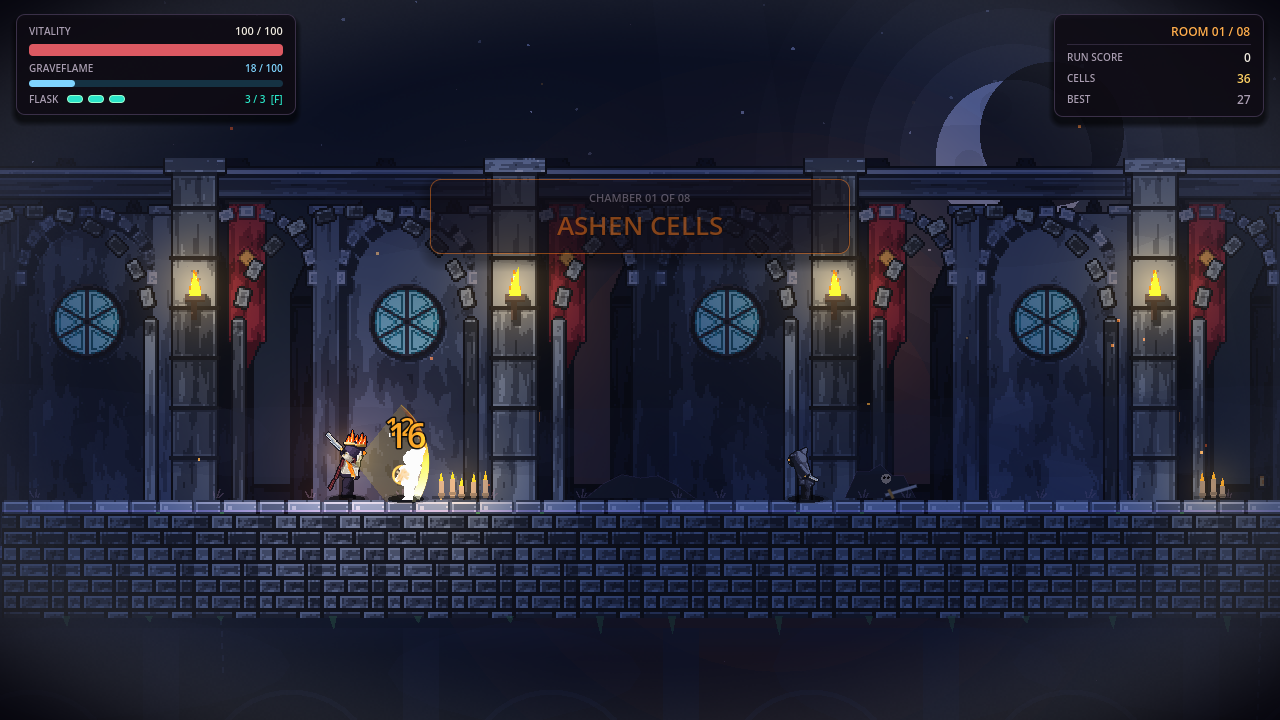
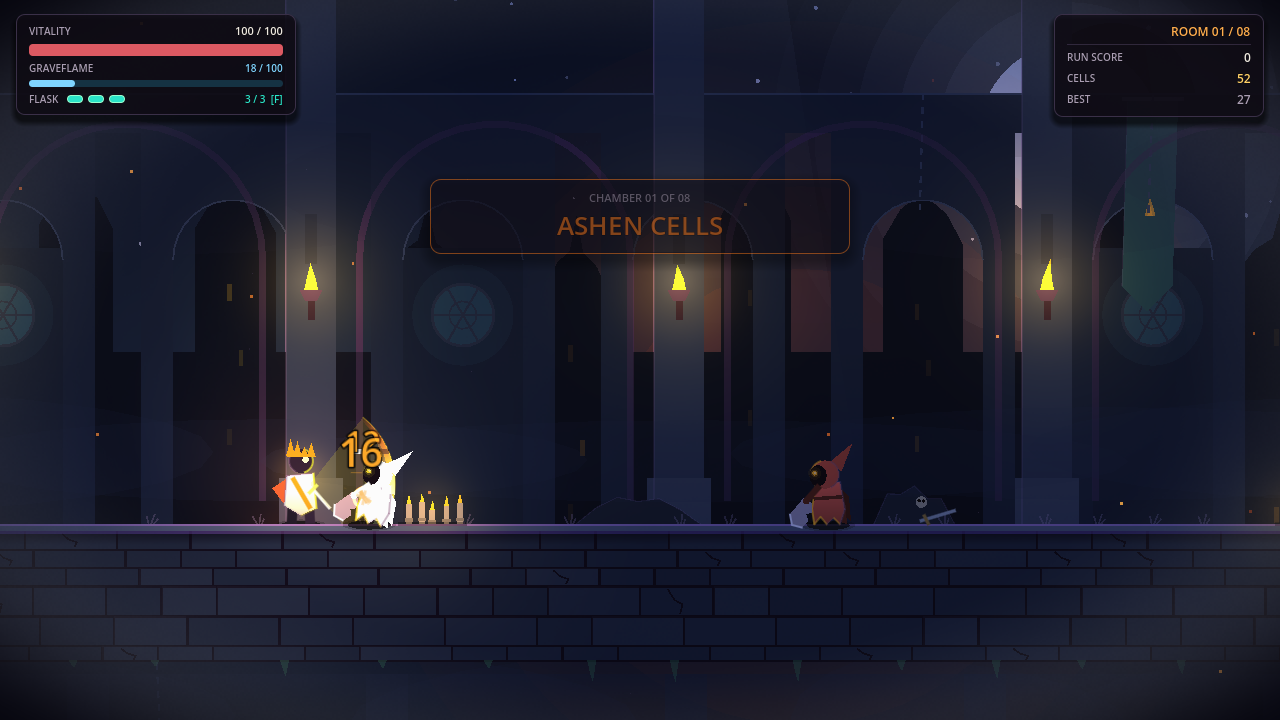
docs: refresh README with screenshot-first showcase and new runtime captures

diff --git a/README.md b/README.md
@@ -1,85 +1,48 @@
 # Graveflame
 
-A dark 2D action-roguelite built with Godot 4. Descend through eight chambers of a ruined keep, chain kills, pick synergy boons, and put down the Ember Warden.
+A dark 2D action-roguelite vertical slice built with Godot 4. Descend through eight chambers of a ruined keep, chain kills, draft synergy boons, and put down the Ember Warden.
 
 ![Graveflame title screen](docs/screenshots/title.png)
 
 <p align="center">
-  <img src="docs/screenshots/combat.png" alt="Graveflame combat with floating damage numbers" width="49%">
-  <img src="docs/screenshots/ember-warden.png" alt="Ember Warden phase two, wisps summoned" width="49%">
+  <img src="docs/screenshots/combat.png" alt="Chamber combat with agile knight and slash arcs" width="49%">
+  <img src="docs/screenshots/ember-warden.png" alt="The Ember Warden boss fight in the throne room" width="49%">
+</p>
+
+<p align="center">
+  <img src="docs/screenshots/forge.png" alt="Platforming through deeper keep chambers" width="49%">
+  <img src="docs/screenshots/boons.png" alt="Boon draft selection" width="49%">
 </p>
 
 ## Play
 
-1. Install Godot 4.3 or newer.
+1. Install [Godot 4.3](https://godotengine.org/) or newer.
 2. Open `project.godot` in Godot.
-3. Press **F5**.
+3. Press **F5** (or run `godot4 --path .`).
 
 ## Controls
 
-`A/D` move · `W/Space` jump · `J` attack · `K` lance · `Q` ignite · `Shift/L` dash · `S` parry · `F` flask · `E/Up` interact · `Esc` pause
+`A/D` move · `W/Space` jump · `J` blade · `K` lance · `Q` ignite · `Shift/L` dash · `S` parry · `F` flask · `E/Up` enter rift · `Esc` pause
 
-Gamepad is mapped too: left stick / d-pad move, A jump, X attack, Y lance, B dash, LB parry, d-pad down flask, d-pad up / RB interact, RT ignite, Start pause.
+Full gamepad support included (left stick/d-pad move, A jump, X attack, Y lance, B dash, LB parry, d-pad down flask, RT ignite, Start pause).
 
-## What a run looks like
+## What's in the run
 
-- **Eight chambers.** An intro, six combat chambers (each of the seven authored layouts appears at most once per seed), then the throne room.
-- **Generated gauntlets.** The first two chambers are hand-authored; deeper ones fill waves from a threat budget seeded by the run, escalating to three waves with brutes and bombers.
-- **Depth scaling and elites.** Enemies gain health and damage per chamber. From the third chamber on, one enemy may spawn as a gilded elite: bigger, tougher, worth triple score and three cells.
-- **Kill streaks.** Chained kills inside a short window multiply score up to x3, with a decaying meter on the HUD.
-- **Boons with rarity.** Each clear offers three of 22 boons weighted common / rare / epic. Unique boons leave the pool once taken. Synergy picks include Second Wind, Pyre (burning enemies detonate), Executioner, Momentum, Backdraft, Emberwave, Kindling, Bloodrush, and Cinder Skin.
-- **The Ember Warden.** Lunge, fan, slam, and a telegraphed arena charge. Below half health it ignites, calls two wisps, and stops flinching.
-- **Feedback everywhere.** Floating damage numbers, blocked-hit callouts, hit-stop, a vignette that bleeds red at low health, chamber title cards, and an end-of-run summary (time, kills, elites, best streak, damage, chambers).
-- **One pixel grid, all of it rendered.** The world draws at 640x360 and upscales 2x with nearest filtering. The environment is a Blender-rendered tileset and three seamless parallax layers (`tools/render_environment.py` + `tests/env_bake.gd`): bevelled stone bricks for platform tops, fills, broken ends, ledges and pillars; distant towers; an arcade of stone arches with glazed rose windows and banners; near buttresses with sconces. Every pixel is toned inside its material's ramp so the sheets share one palette with the creatures.
-- **Real 2D lighting.** An ambient tint per mood and point lights on the knight's flame, torches, braziers, the open rift, the boss, wisps and elites, with atmospheric haze between the parallax planes.
-- **Every character is Blender-rendered at full pixel detail.** `tools/render_creatures.py` models, poses and renders the whole cast (stalker, hopper, wisp, brute, bomber, and the Ember Warden in both phases; idle, windup, attack, stagger and death) and `tests/creature_bake.gd` bakes the sheets and `anim_manifest.json` into `assets/creatures`. Characters carry one-pixel detail over the two-pixel environment grid, the same split Dead Cells uses.
-- **The knight is rendered the same way.** `tools/render_knight.py` models and poses the knight in Blender (fire crown, tunic and sash, cape, sword), renders 21 poses × 4 crown-flicker frames plus a material-ID pass, and `tests/knight_bake.gd` bakes `assets/knight/knight_sheet.png`. If a sheet is missing the game falls back to procedural drawing. After any bake, run a headless import so Godot picks up the new textures.
-- **A keep that warms as you descend.** The palette blends from a cold, moonlit blue crypt through a forge to the crimson throne, tinting tiles, layers and light; chambers carry their own set dressing (candles, bone piles, gallows, gears and pipes, braziers, the Ember Throne).
-- **Procedural score.** Two seamless loops (an exploration bed and a boss theme) are synthesized from sine math on a worker thread at boot. There are no audio assets. Toggle music under Pause → Sound.
-- **Meta progression.** Cells persist between runs and buy permanent upgrades at the Forge.
-
-<p align="center">
-  <img src="docs/screenshots/forge.png" alt="A forge-depth chamber: lava pit, gallows, broken masonry" width="49%">
-  <img src="docs/screenshots/boons.png" alt="Boon selection with rarity tiers" width="49%">
-</p>
+- **Eight chambers:** A cold crypt descent warming into a subterranean forge and the crimson Ember Throne.
+- **Procedural vector art & lighting:** Clean, cohesive vector-native silhouettes, dual rim lighting, and real-time atmospheric depth without resolution clashes.
+- **Dynamic combat feel:** Directional slashes, ground slam impacts, front-facing parry windows, and kill-streak multiplier meters.
+- **The Ember Warden:** Towering gothic inquisitor/executioner with a cathedral ribcage furnace, horned mitre, executioner's greatsword, and phase 2 wisp summons.
+- **22 Synergy Boons:** Common, rare, and epic passive power-ups that alter flame properties, streaks, and survivability.
+- **Synthesized score:** Seamless ambient and boss audio themes generated procedurally at runtime.
 
 ## Tests
 
-Two headless suites cover data invariants (seeded routes, wave generation, boon rolls) and runtime behaviour (elites, Second Wind, Pyre, boss charge and summons, music rendering, and a full simulated run from title to victory):
+Headless verification suites covering data invariants, mechanics, and runtime behavior:
 
 ```sh
 godot4 --headless --path . --script res://tests/test_runner.gd
 godot4 --headless --path . --script res://tests/runtime_smoke.gd
 ```
-
-Developer tools:
-
-```sh
-# Render the procedural score to WAV for listening/analysis
-godot4 --headless --path . --script res://tests/music_dump.gd -- /tmp/graveflame-music
-# Rebuild the environment art: render tiles + parallax layers in Blender, bake into assets/env
-blender -b --python tools/render_environment.py -- /tmp/graveflame-env-render
-godot4 --headless --path . --script res://tests/env_bake.gd -- /tmp/graveflame-env-render
-# Rebuild the creature family: render in Blender, then bake sheets + manifest into assets/creatures
-blender -b --python tools/render_creatures.py -- /tmp/graveflame-creature-render
-godot4 --headless --path . --script res://tests/creature_bake.gd -- /tmp/graveflame-creature-render
-# Rebuild the knight: render in Blender, then bake the sheet into assets/knight
-blender -b --python tools/render_knight.py -- /tmp/graveflame-knight-render
-godot4 --headless --path . --script res://tests/knight_bake.gd -- /tmp/graveflame-knight-render
-# Refresh Godot's import cache after any bake
-godot4 --headless --import --path .
-# Fallback tile compositor sheet (used only when assets/knight is absent)
-godot4 --headless --path . --script res://tests/knight_dump.gd -- /tmp/graveflame-knight
-# Drive a run and save 1280x720 screenshots of the key beats. Renders offscreen, so
-# the window can be tiny (it still needs a display).
-godot4 --path . --script res://tests/screenshot_probe.gd --resolution 320x180 --position 0,0 -- /tmp/graveflame-shots
-```
-
-Both tools and the runtime suite write to a scratch save file, never to the player's real progress.
-
-## Status
-
-Playable vertical slice. Visuals are Blender-rendered sprite sheets (knight, creature family, environment tiles and parallax layers) over a procedural pixel pipeline; audio is synthesized at runtime.
 
 ## License
 
